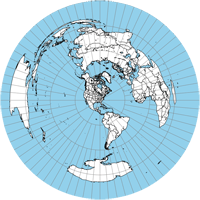
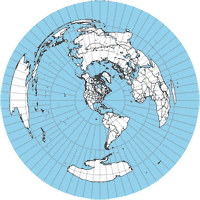
file right-sizing.

diff --git a/src/content/setup.html b/src/content/setup.html
@@ -1,30 +1,6 @@
 <!DOCTYPE html>
 <html xmlns="http://www.w3.org/1999/html" lang="en">
-<!--
-
-Web Rotator Controller for Raspberry Pi Pico W
-
-Copyright 2022, J. B. Otterson N1KDO.
-
-Redistribution and use in source and binary forms, with or without modification,
-are permitted provided that the following conditions are met:
-  1. Redistributions of source code must retain the above copyright notice,
-     this list of conditions and the following disclaimer.
-  2. Redistributions in binary form must reproduce the above copyright notice,
-     this list of conditions and the following disclaimer in the documentation
-     and/or other materials provided with the distribution.
-THIS SOFTWARE IS PROVIDED BY THE COPYRIGHT HOLDERS AND CONTRIBUTORS "AS IS" AND
-ANY EXPRESS OR IMPLIED WARRANTIES, INCLUDING, BUT NOT LIMITED TO, THE IMPLIED
-WARRANTIES OF MERCHANTABILITY AND FITNESS FOR A PARTICULAR PURPOSE ARE DISCLAIMED.
-IN NO EVENT SHALL THE COPYRIGHT HOLDER OR CONTRIBUTORS BE LIABLE FOR ANY DIRECT,
-INDIRECT, INCIDENTAL, SPECIAL, EXEMPLARY, OR CONSEQUENTIAL DAMAGES (INCLUDING,
-BUT NOT LIMITED TO, PROCUREMENT OF SUBSTITUTE GOODS OR SERVICES; LOSS OF USE,
-DATA, OR PROFITS; OR BUSINESS INTERRUPTION) HOWEVER CAUSED AND ON ANY THEORY OF
-LIABILITY, WHETHER IN CONTRACT, STRICT LIABILITY, OR TORT (INCLUDING NEGLIGENCE
-OR OTHERWISE) ARISING IN ANY WAY OUT OF THE USE OF THIS SOFTWARE, EVEN IF ADVISED
-OF THE POSSIBILITY OF SUCH DAMAGE.
-
--->
+<!-- Copyright 2022, J. B. Otterson N1KDO. -->
 <head>
     <meta name="viewport" content="width=device-width, initial-scale=0.8, minimum-scale=0.5, maximum-scale=2.0">
     <title>Web Rotator Control</title>
@@ -33,14 +9,13 @@ OF THE POSSIBILITY OF SUCH DAMAGE.
     .author {
         font-size: 8pt;
         font-weight: bold;
-        color: black;
         text-align: right;
         position: absolute;
         top: 340px;
         width: 498px;
     }
 
-    .author a:link, a:visited, a:hover {
+    .author a:link, .author a:visited, .author a:hover {
         color: black;
         text-decoration: none;
     }
@@ -54,6 +29,10 @@ OF THE POSSIBILITY OF SUCH DAMAGE.
         width: 500px;
     }
 
+    .centered {
+        text-align: center;
+    }
+
     .config_form {
         padding: 20px 49px;
         width: 400px;
@@ -63,6 +42,23 @@ OF THE POSSIBILITY OF SUCH DAMAGE.
         border-style: double;
         border-radius: 4px;
         padding: 10px;
+    }
+
+    form {
+        display: table;
+        padding: 20px 50px;
+    }
+
+    form p {
+        display: table-row;
+        line-height: 2em;
+    }
+
+    .header {
+        text-align: center;
+        font-size: 24pt;
+        font-weight: bold;
+        margin-top: 4px;
     }
 
     input {
@@ -88,33 +84,11 @@ OF THE POSSIBILITY OF SUCH DAMAGE.
         width: 5em;
     }
 
-    .centered {
-        text-align: center;
-    }
-
-    form {
-        display: table;
-        padding: 20px 50px;
-    }
-
-    form p {
-        display: table-row;
-        line-height: 2em;
-    }
-
     label {
         display: table-cell;
         text-align: right;
         width: 40%;
     }
-
-    .header {
-        text-align: center;
-        font-size: 24pt;
-        font-weight: bold;
-        margin-top: 4px;
-    }
-
 </style>
 <script>
 
@@ -150,12 +124,10 @@ OF THE POSSIBILITY OF SUCH DAMAGE.
     }
 
     function set_config() {
-        // get the form data
         let ssid = document.getElementById("ssid_input").value
         let secret = document.getElementById("secret_input").value
         let tcp_port = document.getElementById("tcp_port_input").value
         let web_port = document.getElementById("web_port_input").value
-        // validate the form data
         if (ssid.length < 1 || ssid.length > 64) {
             alert("Invalid SSID!");
             return;
@@ -174,7 +146,6 @@ OF THE POSSIBILITY OF SUCH DAMAGE.
             alert("Invalid Web Port");
             return;
         }
-        // construct a new JSON string to send to the host
         let config = {};
         config.SSID = ssid;
         config.secret = secret;
@@ -200,7 +171,6 @@ OF THE POSSIBILITY OF SUCH DAMAGE.
     function process_set_config_response(message) {
         //alert(message);
     }
-
 
     function restart() {
         let xmlHttp = new XMLHttpRequest();
@@ -251,14 +221,17 @@ OF THE POSSIBILITY OF SUCH DAMAGE.
         </form>
         <div class="centered">
             <p>
-                <input type="button" id="cancel_button" value="Cancel" title="Back to Rotator Control" onclick="cancel_page()"/>
-                <input type="button" id="reset_button" value="Reset" title="Reload Configuration" onclick="get_config()"/>
-                <input type="button" id="reset_button" value="Restart" title="Restart Controller to use new setup" onclick="restart()"/>
+                <input type="button" id="cancel_button" value="Cancel" title="Back to Rotator Control"
+                       onclick="cancel_page()"/>
+                <input type="button" id="reset_button" value="Reset" title="Reload Configuration"
+                       onclick="get_config()"/>
+                <input type="button" id="reset_button" value="Restart" title="Restart Controller to use new setup"
+                       onclick="restart()"/>
                 <input type="button" id="apply_button" value="Apply" title="Save Configuration" onclick="set_config()"/>
             </p>
         </div>
     </div>
 </div>
-<div class="author"><a href="https://www.n1kdo.com" target="_blank">N1KDO</a> 20220824</div>
+<div class="author"><a href="https://www.n1kdo.com" target="_blank">N1KDO</a> 20220826</div>
 </body>
 </html>

diff --git a/src/content/rotator.html b/src/content/rotator.html
@@ -1,30 +1,6 @@
 <!DOCTYPE html>
 <html xmlns="http://www.w3.org/1999/html" lang="en">
-<!--
-
-Web Rotator Controller for Raspberry Pi Pico W
-
-Copyright 2022, J. B. Otterson N1KDO.
-
-Redistribution and use in source and binary forms, with or without modification,
-are permitted provided that the following conditions are met:
-  1. Redistributions of source code must retain the above copyright notice,
-     this list of conditions and the following disclaimer.
-  2. Redistributions in binary form must reproduce the above copyright notice,
-     this list of conditions and the following disclaimer in the documentation
-     and/or other materials provided with the distribution.
-THIS SOFTWARE IS PROVIDED BY THE COPYRIGHT HOLDERS AND CONTRIBUTORS "AS IS" AND
-ANY EXPRESS OR IMPLIED WARRANTIES, INCLUDING, BUT NOT LIMITED TO, THE IMPLIED
-WARRANTIES OF MERCHANTABILITY AND FITNESS FOR A PARTICULAR PURPOSE ARE DISCLAIMED.
-IN NO EVENT SHALL THE COPYRIGHT HOLDER OR CONTRIBUTORS BE LIABLE FOR ANY DIRECT,
-INDIRECT, INCIDENTAL, SPECIAL, EXEMPLARY, OR CONSEQUENTIAL DAMAGES (INCLUDING,
-BUT NOT LIMITED TO, PROCUREMENT OF SUBSTITUTE GOODS OR SERVICES; LOSS OF USE,
-DATA, OR PROFITS; OR BUSINESS INTERRUPTION) HOWEVER CAUSED AND ON ANY THEORY OF
-LIABILITY, WHETHER IN CONTRACT, STRICT LIABILITY, OR TORT (INCLUDING NEGLIGENCE
-OR OTHERWISE) ARISING IN ANY WAY OUT OF THE USE OF THIS SOFTWARE, EVEN IF ADVISED
-OF THE POSSIBILITY OF SUCH DAMAGE.
-
--->
+<!-- Copyright 2022, J. B. Otterson N1KDO. -->
 <head>
     <meta name="viewport" content="width=device-width, initial-scale=0.8, minimum-scale=0.5, maximum-scale=2.0">
     <title>Web Rotator Control</title>
@@ -33,7 +9,6 @@ OF THE POSSIBILITY OF SUCH DAMAGE.
     .author {
         font-size: 8pt;
         font-weight: bold;
-        color: black;
         text-align: right;
         position: absolute;
         top: 340px;
@@ -42,21 +17,6 @@ OF THE POSSIBILITY OF SUCH DAMAGE.
 
     .author a:link, .author a:visited, .author a:hover {
         color: black;
-        text-decoration: none;
-    }
-
-    .setup {
-        font-size: 8pt;
-        font-weight: bold;
-        color: black;
-        text-align: left;
-        position: absolute;
-        top: 340px;
-        width: 2px;
-    }
-
-    .setup a:link, .setup a:visited, .setup a:hover {
-        color: blue;
         text-decoration: none;
     }
 
@@ -93,6 +53,12 @@ OF THE POSSIBILITY OF SUCH DAMAGE.
         border-bottom: 24px;
     }
 
+    /* ensures the increment/decrement arrows always display */
+    input[type=number]::-webkit-inner-spin-button,
+    input[type=number]::-webkit-outer-spin-button {
+        opacity: 1;
+    }
+
     .left_column {
         float: left;
         text-align: center;
@@ -114,8 +80,6 @@ OF THE POSSIBILITY OF SUCH DAMAGE.
 
     #readout {
         position: absolute;
-        Zmargin: auto;
-        Ztext-align: left;
         top: 30px;
     }
 
@@ -149,12 +113,6 @@ OF THE POSSIBILITY OF SUCH DAMAGE.
         width: 3em;
     }
 
-    /* ensures the increment/decrement arrows always display */
-    input[type=number]::-webkit-inner-spin-button,
-    input[type=number]::-webkit-outer-spin-button {
-        opacity: 1;
-    }
-
     .rotate_button {
         background: transparent;
         border: none;
@@ -168,6 +126,21 @@ OF THE POSSIBILITY OF SUCH DAMAGE.
 
     .rotate_button:hover {
         color: red;
+    }
+
+    .setup {
+        font-size: 8pt;
+        font-weight: bold;
+        color: black;
+        text-align: left;
+        position: absolute;
+        top: 340px;
+        width: 2px;
+    }
+
+    .setup a:link, .setup a:visited, .setup a:hover {
+        color: blue;
+        text-decoration: none;
     }
 
     #turn_button {
@@ -308,7 +281,7 @@ OF THE POSSIBILITY OF SUCH DAMAGE.
 <div class="header">Web Rotator Controller</div>
 <div class="row">
     <div class="left_column">
-        <img class="compassbg" src="/compass-background.png" width=200" height="200" />
+        <img class="compassbg" src="/compass-background.png" width=200" height="200"/>
         <div id="readout">
             <svg id="dial">
                 <circle id="q1" cx="150" cy="150" r="100" fill="none" stroke-width="8px" stroke="#4ad"></circle>
@@ -351,7 +324,7 @@ OF THE POSSIBILITY OF SUCH DAMAGE.
             <input type="radio" name="refresh_radio" id="refresh_radio_60" value="60" onclick="set_refresh(60)"/>
             <label for="refresh_radio_60">1 minute</label><br>
         </div>
-        <div class="author"><a href="https://www.n1kdo.com" target="_blank">N1KDO</a> 20220825</div>
+        <div class="author"><a href="https://www.n1kdo.com" target="_blank">N1KDO</a> 20220826</div>
     </div>
 </div>
 </body>

diff --git a/src/main.py b/src/main.py
@@ -1,28 +1,30 @@
 #
 # main.py -- this is the web server for the Raspberry Pi Pico W Web Rotator Controller.
 #
-
 __author__ = 'J. B. Otterson'
-__copyright__ = """
-Copyright 2022, J. B. Otterson N1KDO.
-Redistribution and use in source and binary forms, with or without modification, 
-are permitted provided that the following conditions are met:
-  1. Redistributions of source code must retain the above copyright notice, 
-     this list of conditions and the following disclaimer.
-  2. Redistributions in binary form must reproduce the above copyright notice, 
-     this list of conditions and the following disclaimer in the documentation 
-     and/or other materials provided with the distribution.
-THIS SOFTWARE IS PROVIDED BY THE COPYRIGHT HOLDERS AND CONTRIBUTORS "AS IS" AND 
-ANY EXPRESS OR IMPLIED WARRANTIES, INCLUDING, BUT NOT LIMITED TO, THE IMPLIED
-WARRANTIES OF MERCHANTABILITY AND FITNESS FOR A PARTICULAR PURPOSE ARE DISCLAIMED.
-IN NO EVENT SHALL THE COPYRIGHT HOLDER OR CONTRIBUTORS BE LIABLE FOR ANY DIRECT,
-INDIRECT, INCIDENTAL, SPECIAL, EXEMPLARY, OR CONSEQUENTIAL DAMAGES (INCLUDING,
-BUT NOT LIMITED TO, PROCUREMENT OF SUBSTITUTE GOODS OR SERVICES; LOSS OF USE, 
-DATA, OR PROFITS; OR BUSINESS INTERRUPTION) HOWEVER CAUSED AND ON ANY THEORY OF
-LIABILITY, WHETHER IN CONTRACT, STRICT LIABILITY, OR TORT (INCLUDING NEGLIGENCE 
-OR OTHERWISE) ARISING IN ANY WAY OUT OF THE USE OF THIS SOFTWARE, EVEN IF ADVISED
-OF THE POSSIBILITY OF SUCH DAMAGE.
-"""
+__copyright__ = "Copyright 2022, J. B. Otterson N1KDO."
+#
+# Copyright 2022, J. B. Otterson N1KDO.
+#
+# Redistribution and use in source and binary forms, with or without modification,
+# are permitted provided that the following conditions are met:
+#
+#  1. Redistributions of source code must retain the above copyright notice,
+#     this list of conditions and the following disclaimer.
+#  2. Redistributions in binary form must reproduce the above copyright notice,
+#     this list of conditions and the following disclaimer in the documentation
+#     and/or other materials provided with the distribution.
+#
+# THIS SOFTWARE IS PROVIDED BY THE COPYRIGHT HOLDERS AND CONTRIBUTORS "AS IS" AND
+# ANY EXPRESS OR IMPLIED WARRANTIES, INCLUDING, BUT NOT LIMITED TO, THE IMPLIED
+# WARRANTIES OF MERCHANTABILITY AND FITNESS FOR A PARTICULAR PURPOSE ARE DISCLAIMED.
+# IN NO EVENT SHALL THE COPYRIGHT HOLDER OR CONTRIBUTORS BE LIABLE FOR ANY DIRECT,
+# INDIRECT, INCIDENTAL, SPECIAL, EXEMPLARY, OR CONSEQUENTIAL DAMAGES (INCLUDING,
+# BUT NOT LIMITED TO, PROCUREMENT OF SUBSTITUTE GOODS OR SERVICES; LOSS OF USE,
+# DATA, OR PROFITS; OR BUSINESS INTERRUPTION) HOWEVER CAUSED AND ON ANY THEORY OF
+# LIABILITY, WHETHER IN CONTRACT, STRICT LIABILITY, OR TORT (INCLUDING NEGLIGENCE
+# OR OTHERWISE) ARISING IN ANY WAY OUT OF THE USE OF THIS SOFTWARE, EVEN IF ADVISED
+# OF THE POSSIBILITY OF SUCH DAMAGE.
 
 import json
 import sys
